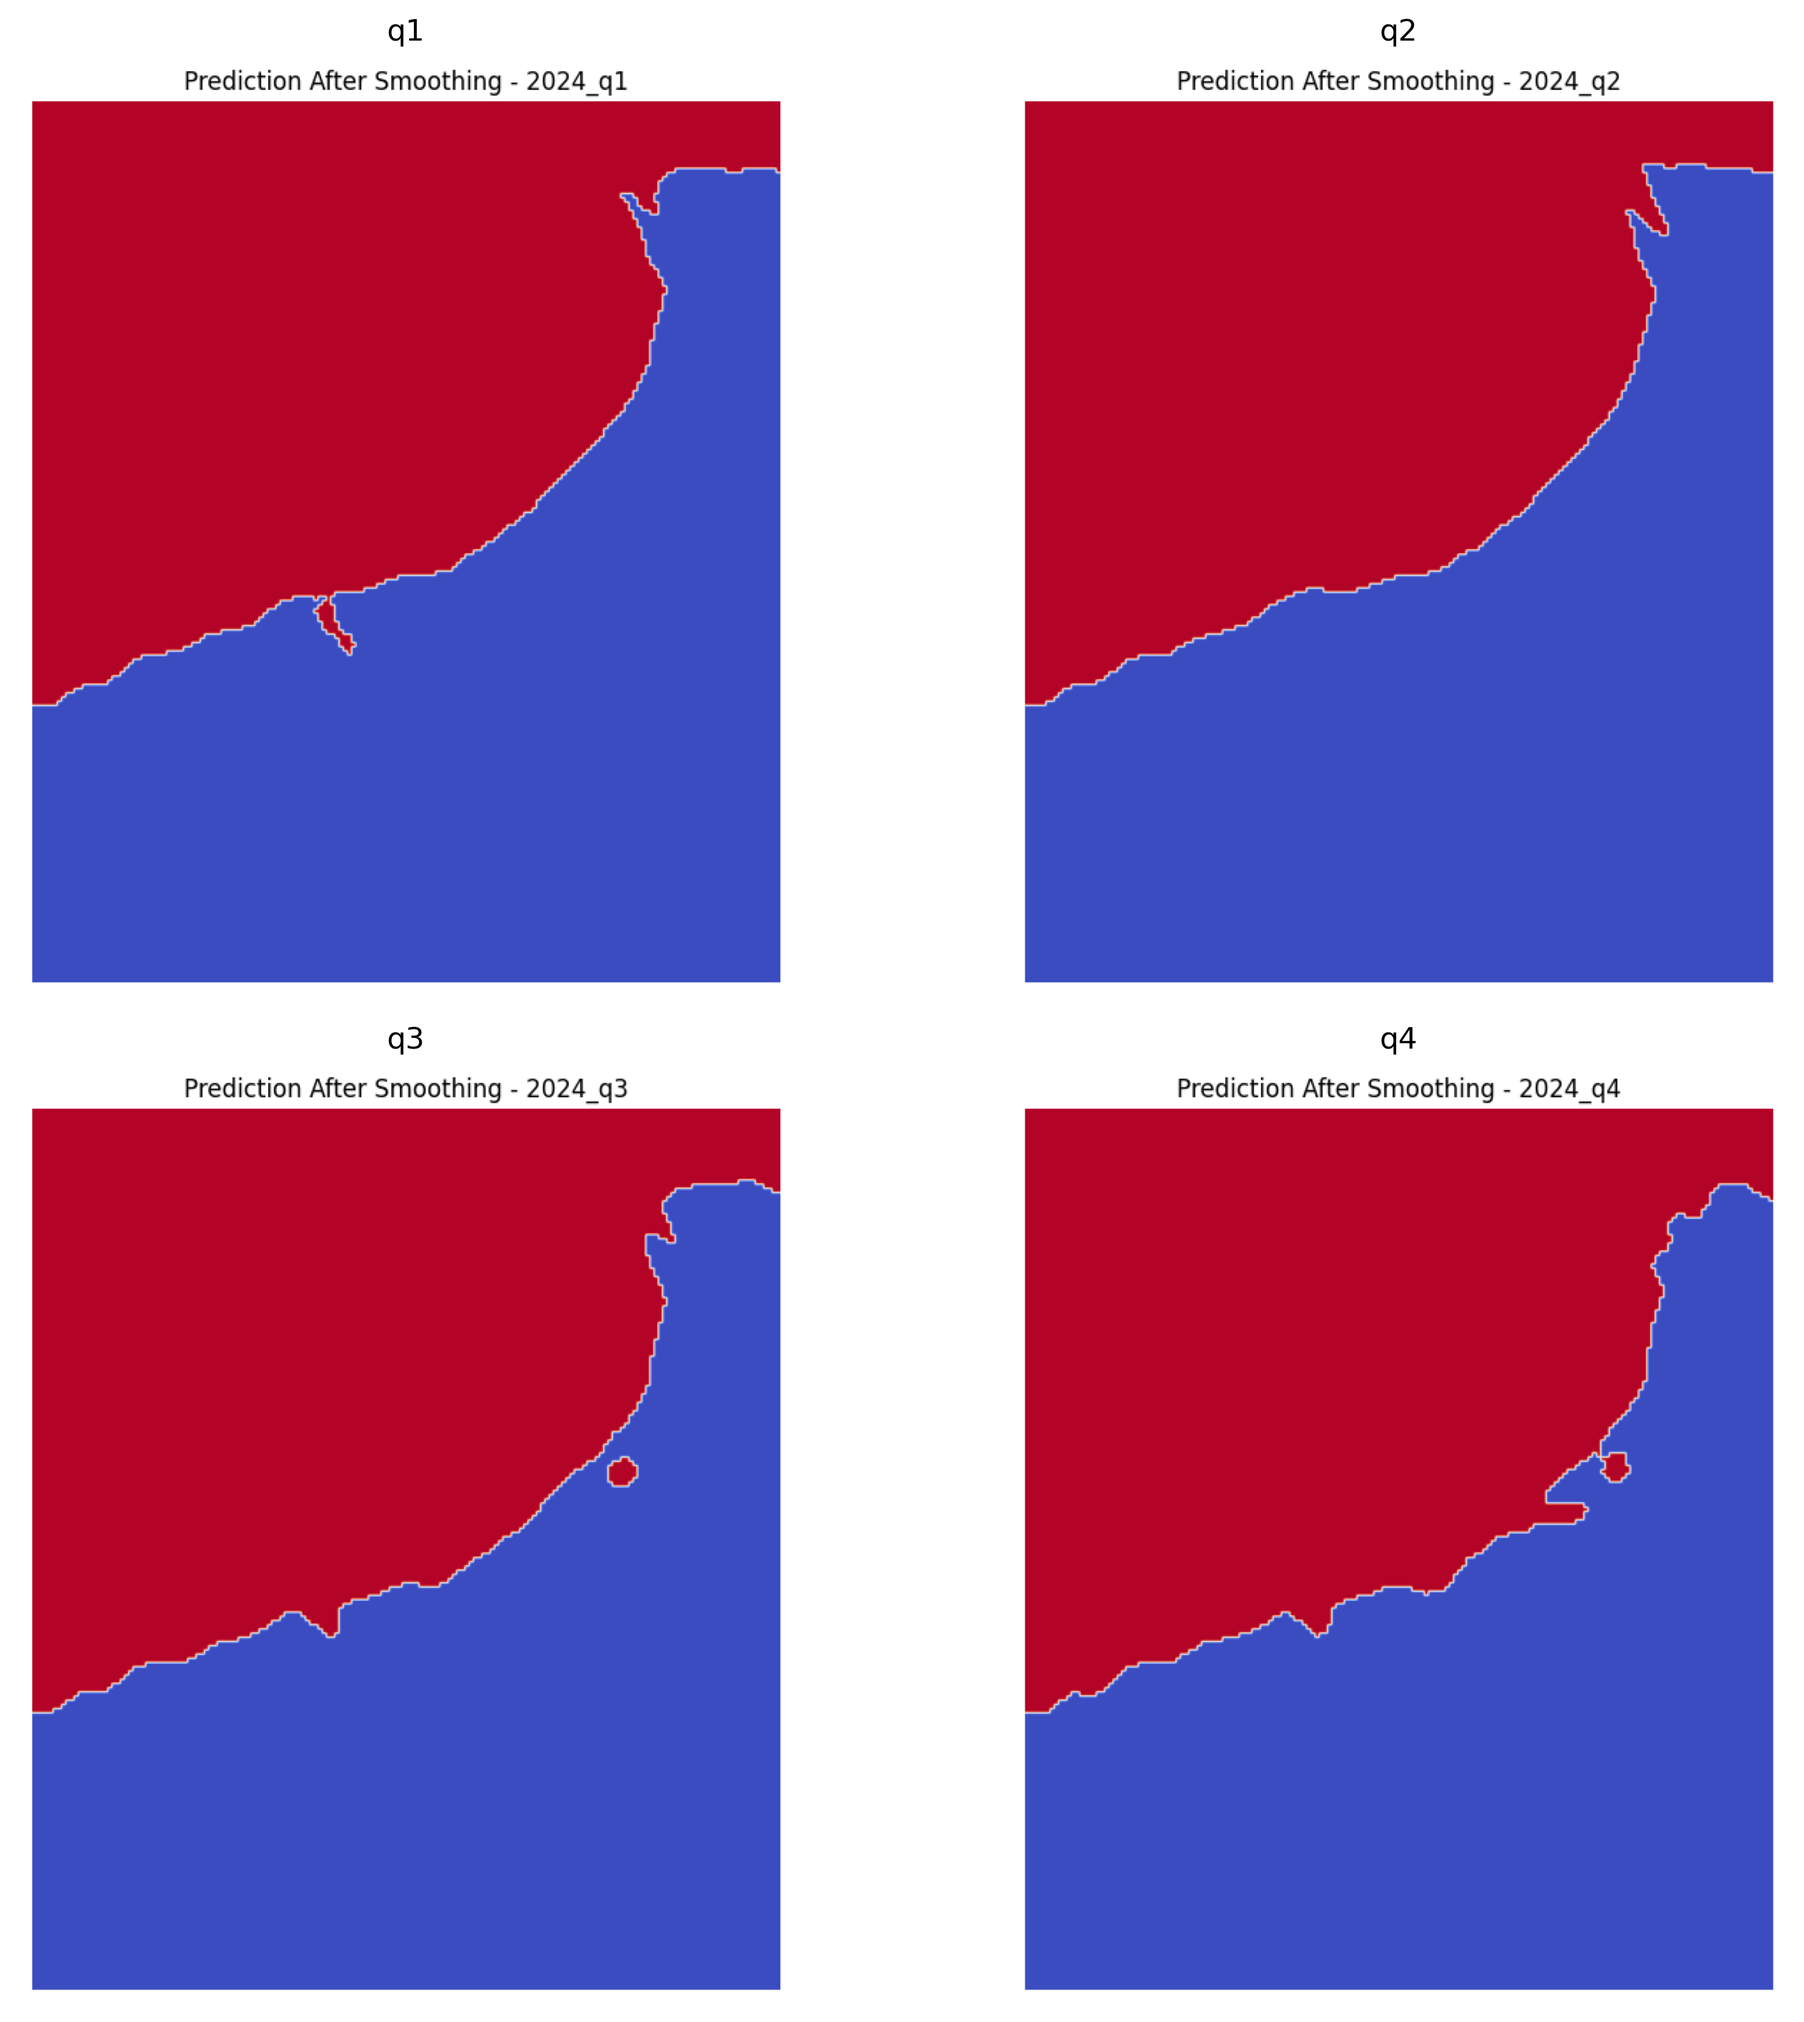
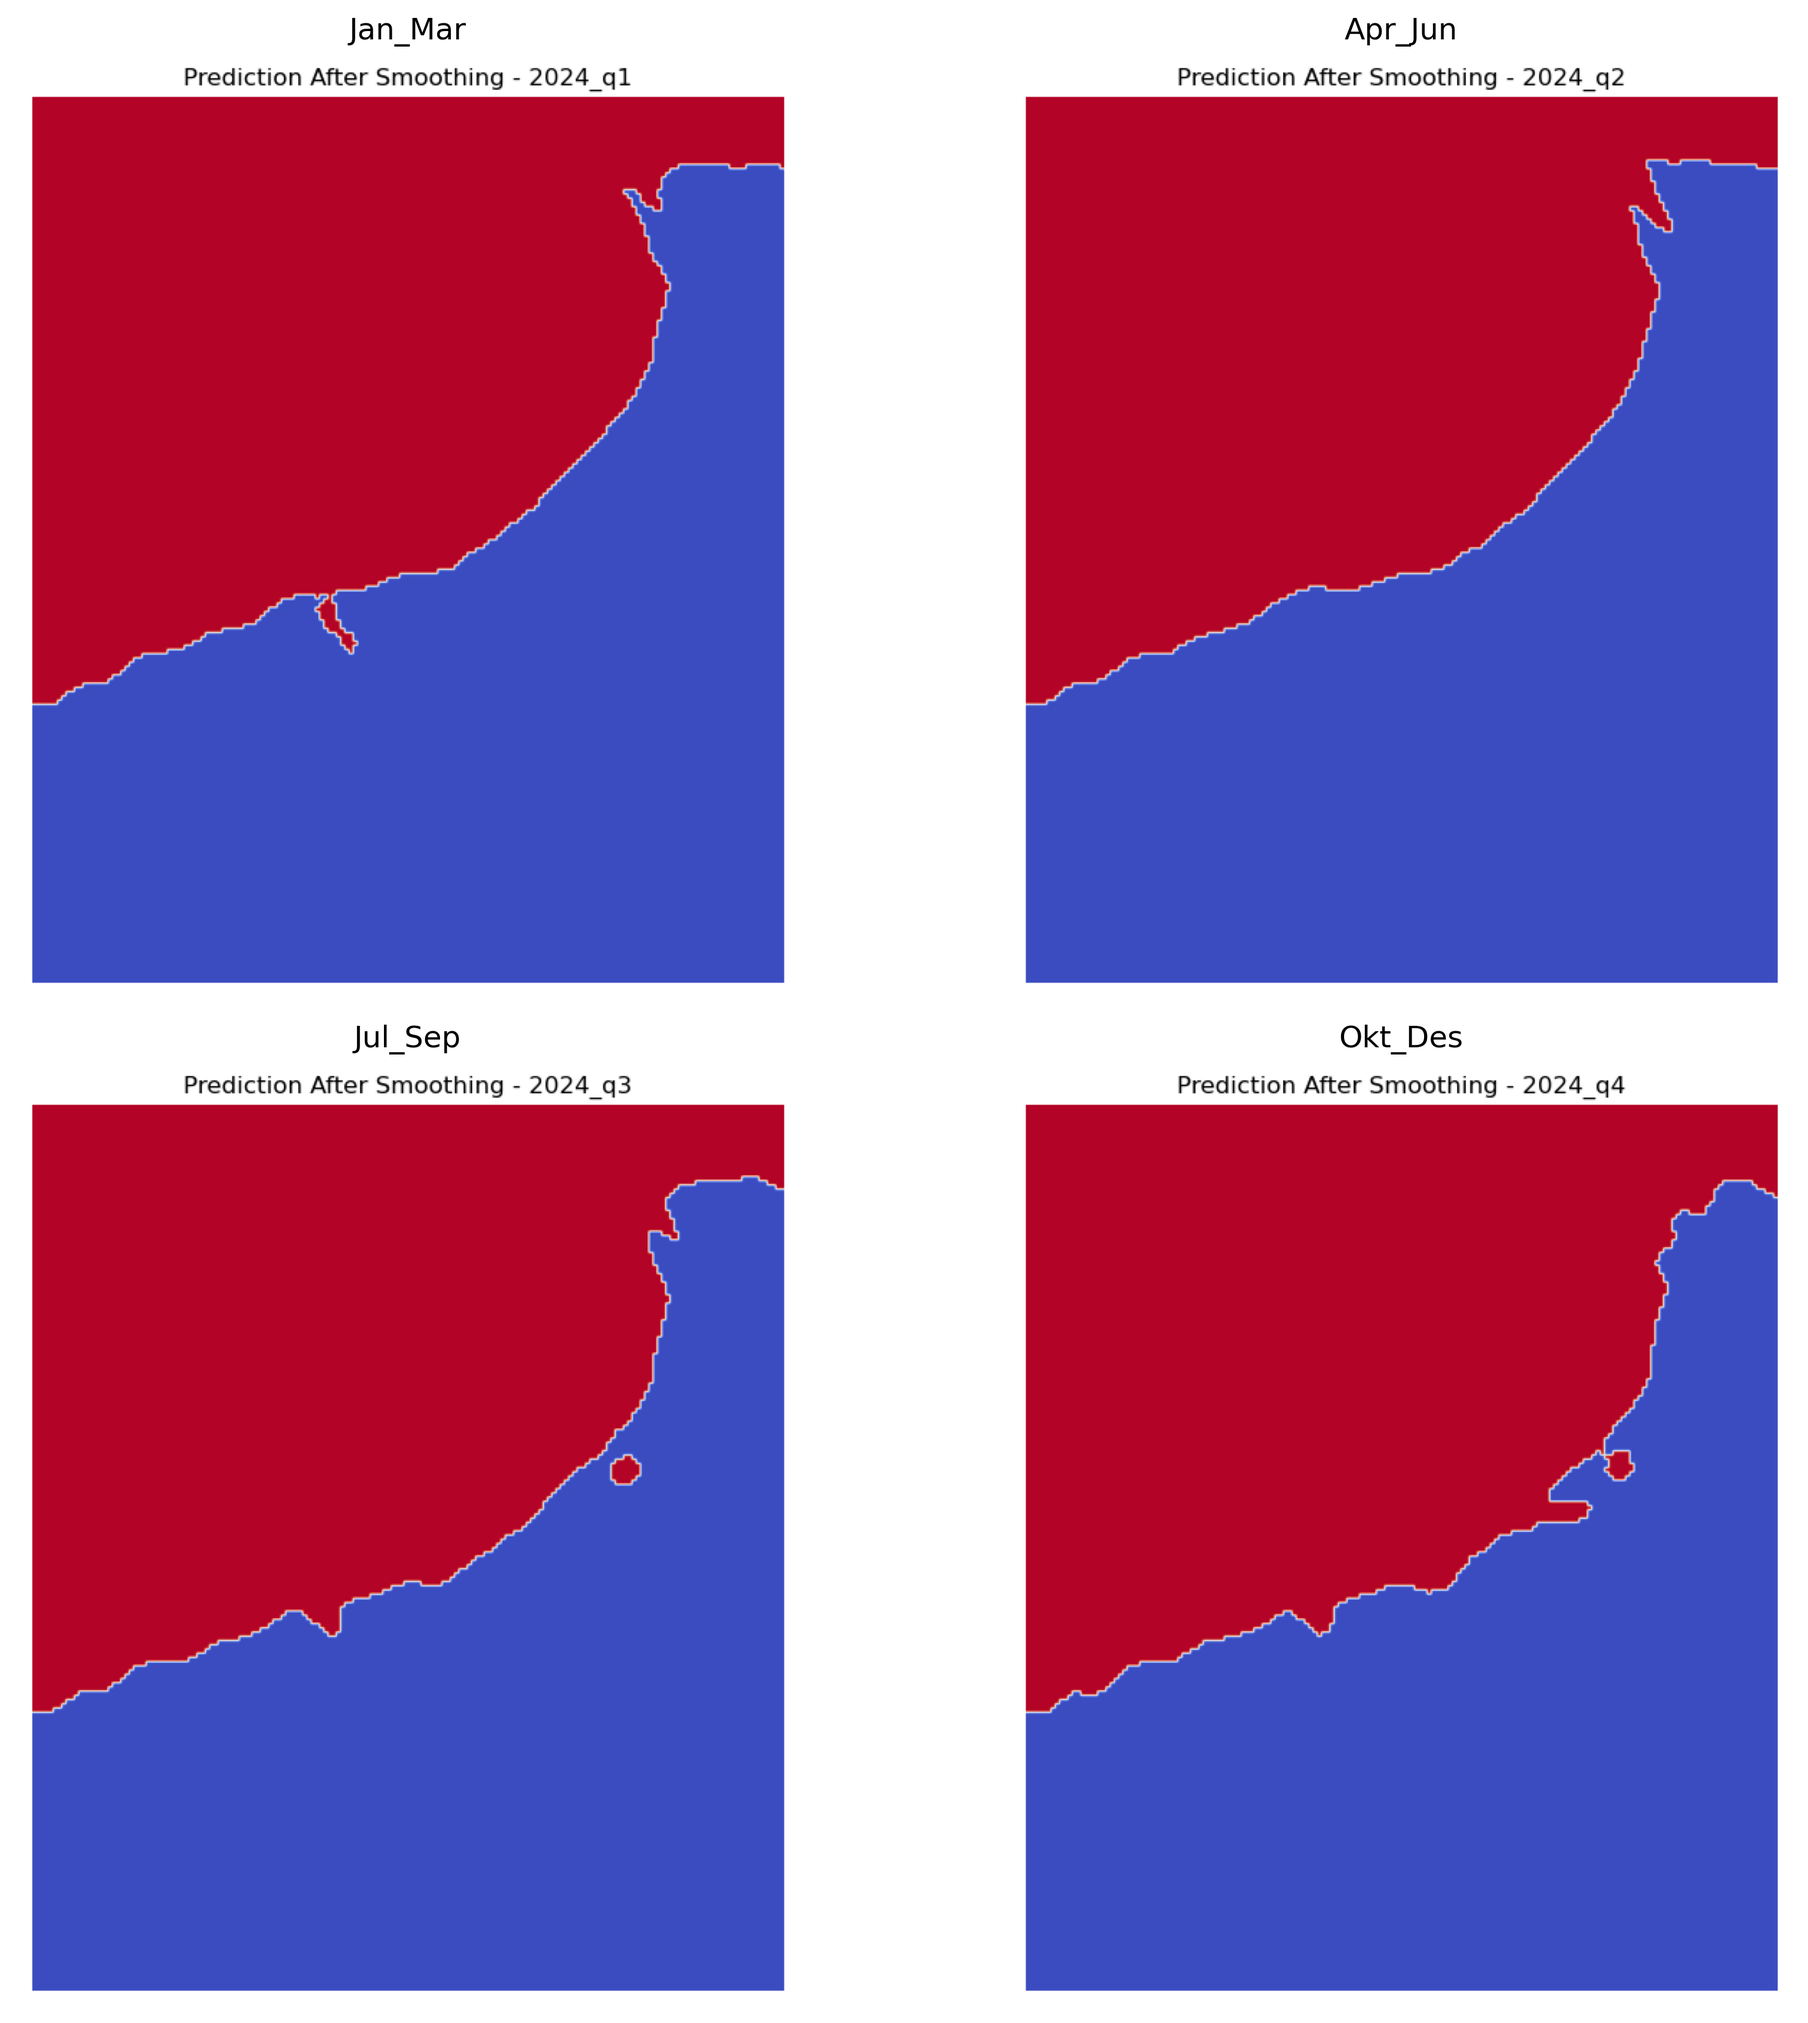
ubah naming period sentinel

diff --git a/web_app/templates/detail.html b/web_app/templates/detail.html
@@ -177,6 +177,11 @@
             imgCon.innerHTML = `<img src="${imgSrc}" alt="Prediksi ${selectedYear}">`;
         }
 
+        if (status == "garis") {
+            const imgSrc = `${baseImgPath}prediction_all_${selectedYear}.png`;
+            imgCon.innerHTML = `<span id=image-title></span> `;
+            imgCon.innerHTML = `<img src="${imgSrc}" alt="Prediksi ${selectedYear}">`;
+        }
 
 
 

diff --git a/modules/combine_hasil.py b/modules/combine_hasil.py
@@ -19,6 +19,15 @@ BASE_MODULES = os.path.dirname(__file__)
 # --- pastikan folder output ada ---
 os.makedirs(OUTPUT_DIR, exist_ok=True)
 
+def convert_q_to_text(period):
+        mapping = {
+        "q1": "Jan_Mar",
+        "q2": "Apr_Jun",
+        "q3": "Jul_Sep",
+        "q4": "Okt_Des"
+        }
+        return mapping.get(period, period)
+
 def init_result():
     coastlines_all = []
     # ==== Path dasar & parameter ====
@@ -58,10 +67,10 @@ def init_result():
                 # print(f"Gagal baca {filepath}: {e}")
         listPlot.append(numPlot)
         # print(listPlot)     
+
     # ==== Path dasar & parameter ====
     years = range(2019, 2025)
-    periods = ["q1", "q2", "q3", "q4"]
-                
+    periods = ["q1", "q2", "q3", "q4"]    
     for year in years:
         numPlot = 0
         for period in periods:
@@ -78,9 +87,11 @@ def init_result():
                     ws = 7
                 )
                 transform = meta["transform"]
+                new_period = convert_q_to_text(period)
+
                 coastlines_all.append({
                     "year": year,
-                    "period": period,
+                    "period": new_period,
                     "mask": array,
                     "transform": transform,
                     "coastline": contours_geo,
@@ -93,6 +104,7 @@ def init_result():
                 # print(f"Gagal baca {filepath}: {e}")
         listPlot.append(numPlot)
         # print(listPlot) 
+
     return coastlines_all, listPlot
 
 def generate_coastline_all():
@@ -101,7 +113,7 @@ def generate_coastline_all():
     # --- Setup warna ---
     years = sorted(set([c["year"] for c in coastlines_all]))
     # print(years)
-    periods = ["Jan_Jun", "Jul_Des", "q1", "q2", "q3", "q4"]
+    periods = ["Jan_Jun", "Jul_Des", "Jan_Mar", "Apr_Jun", "Jul_Sep", "Okt_Des"]
     colors = cm.tab20(np.linspace(0, 1, len(years) * len(periods)))  # palet warna
     
     # Mapping kombinasi (year, period) ke warna unik
@@ -142,7 +154,7 @@ def generate_coastline_all():
 def generate_coastline_compare(curYear):
     coastlines_all = generate_coastline_all()
     years = [curYear, curYear+1]
-    periods = ["Jan_Jun", "Jul_Des", "q1", "q2", "q3", "q4"]
+    periods = ["Jan_Jun", "Jul_Des", "Jan_Mar", "Apr_Jun", "Jul_Sep", "Okt_Des"]
     colors = cm.tab20(np.linspace(0, 1, len(years) * len(periods)))  # palet warna
     
     # Mapping kombinasi (year, period) ke warna unik
@@ -304,7 +316,7 @@ def generate_prediction_all_by_year(year):
     axes = np.array(axes).flatten()
 
     # sort periods agar berurutan
-    period_order = ["Jan_Jun", "Jul_Des", "q1", "q2", "q3", "q4"]
+    period_order = ["Jan_Jun", "Jul_Des", "Jan_Mar", "Apr_Jun", "Jul_Sep", "Okt_Des"]
     data_year = sorted(data_year, key=lambda x: period_order.index(x["period"]))
 
     for i in range(n_fig):

diff --git a/modules/landsat_model.py b/modules/landsat_model.py
@@ -13,7 +13,7 @@ np.random.seed(42)
 # 1) Authenticate & init
 # -------------------------
 try:
-    ee.Initialize(project="ee-junitahariyati0717")
+    ee.Initialize(project="ee-johnsonnn")
 except ee.EEException:
     ee.Authenticate()
     ee.Initialize()

diff --git a/modules/sentinel_model.py b/modules/sentinel_model.py
@@ -13,7 +13,7 @@ np.random.seed(42)
 # 1) Authenticate & init
 # -------------------------
 try:
-    ee.Initialize(project="ee-junitahariyati0717")
+    ee.Initialize(project="ee-johnsonnn")
 except ee.EEException:
     ee.Authenticate()
     ee.Initialize()

diff --git a/web_app/app.py b/web_app/app.py
@@ -15,6 +15,7 @@ def detail():
 
 @app.route("/detail/<year>/<status>")
 def detail_with_params(year, status):
+    # print(year, status)
     return render_template("detail.html", curYear=year, curStat=status)
 
 @app.route("/predict")
